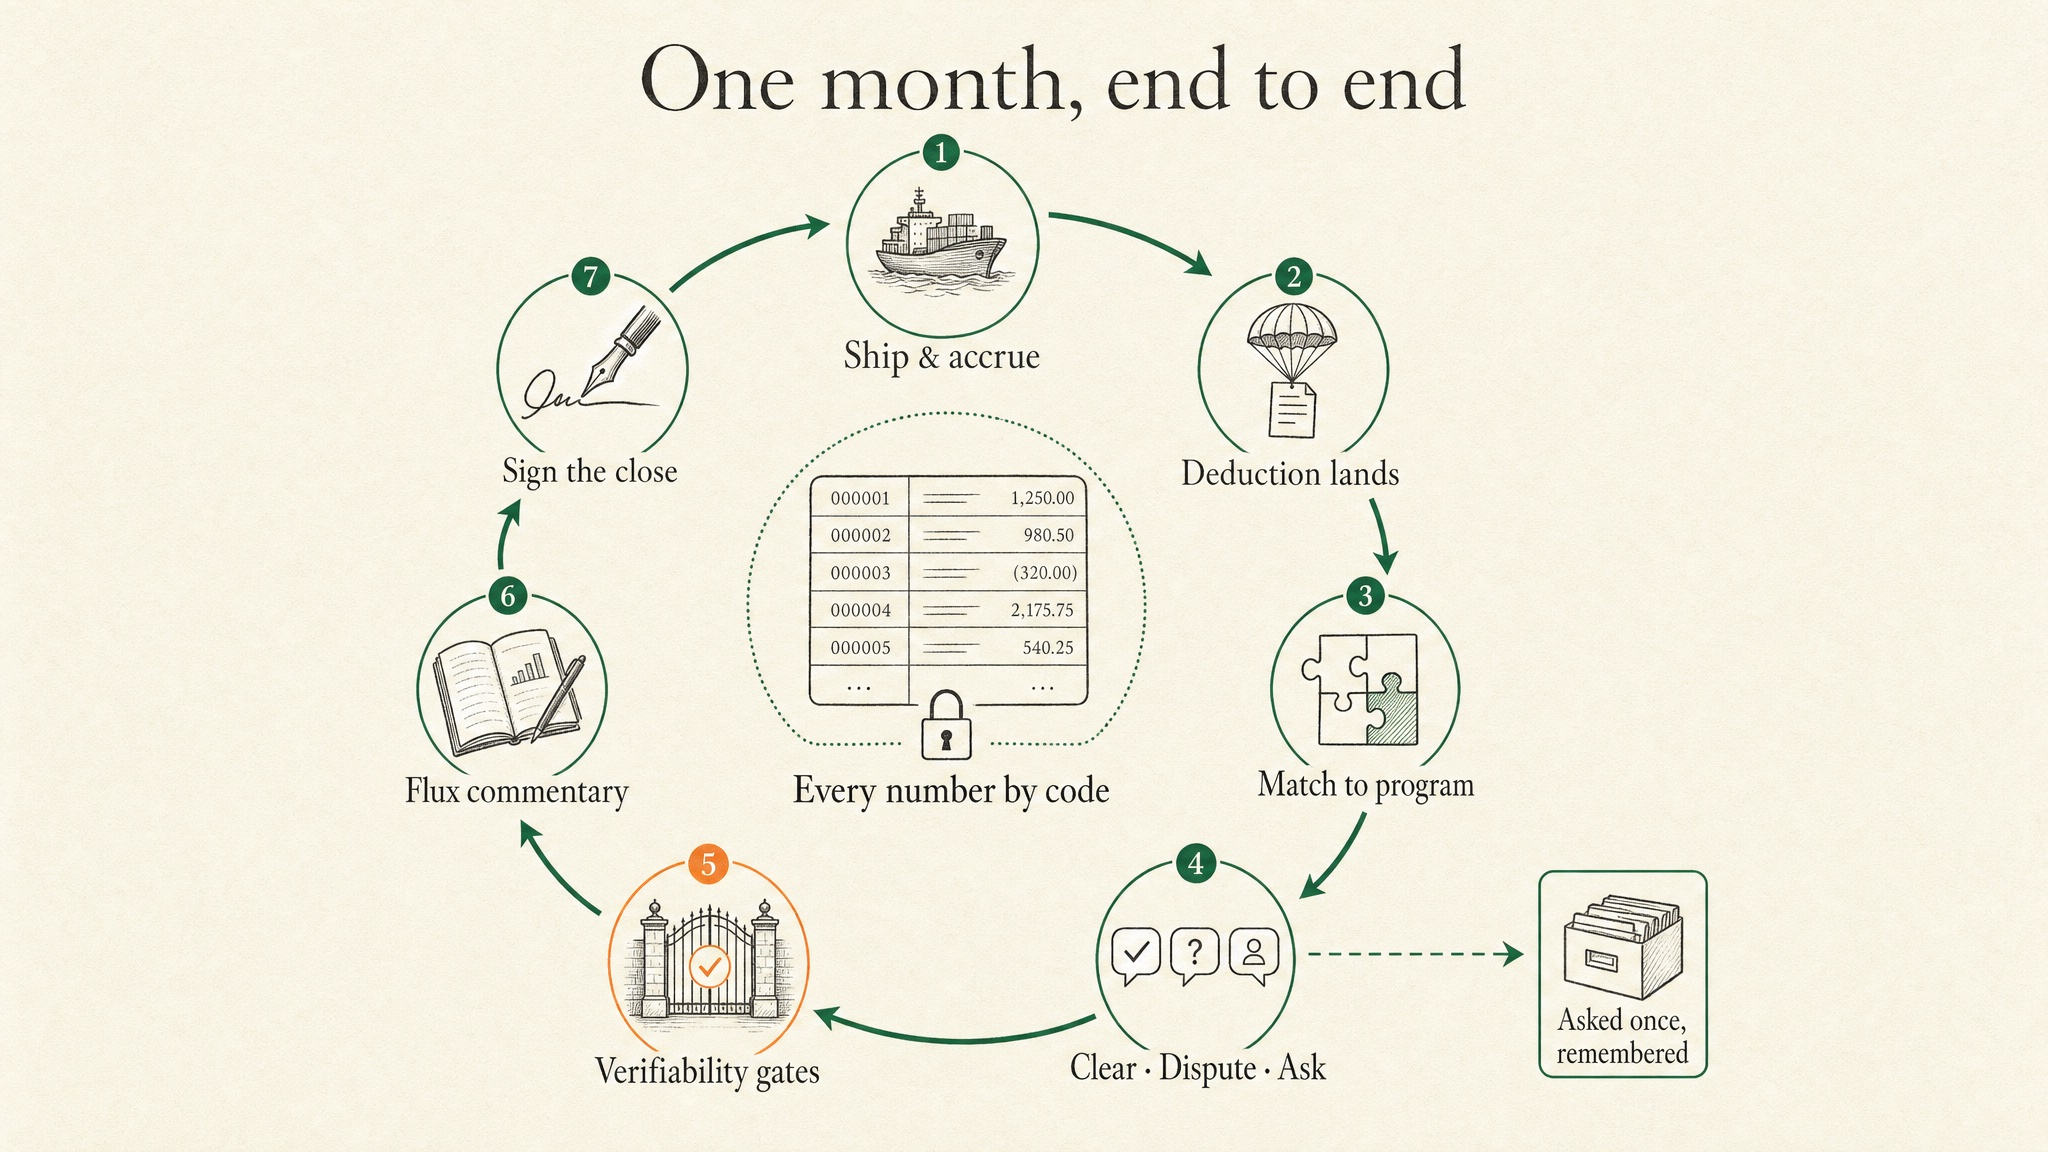
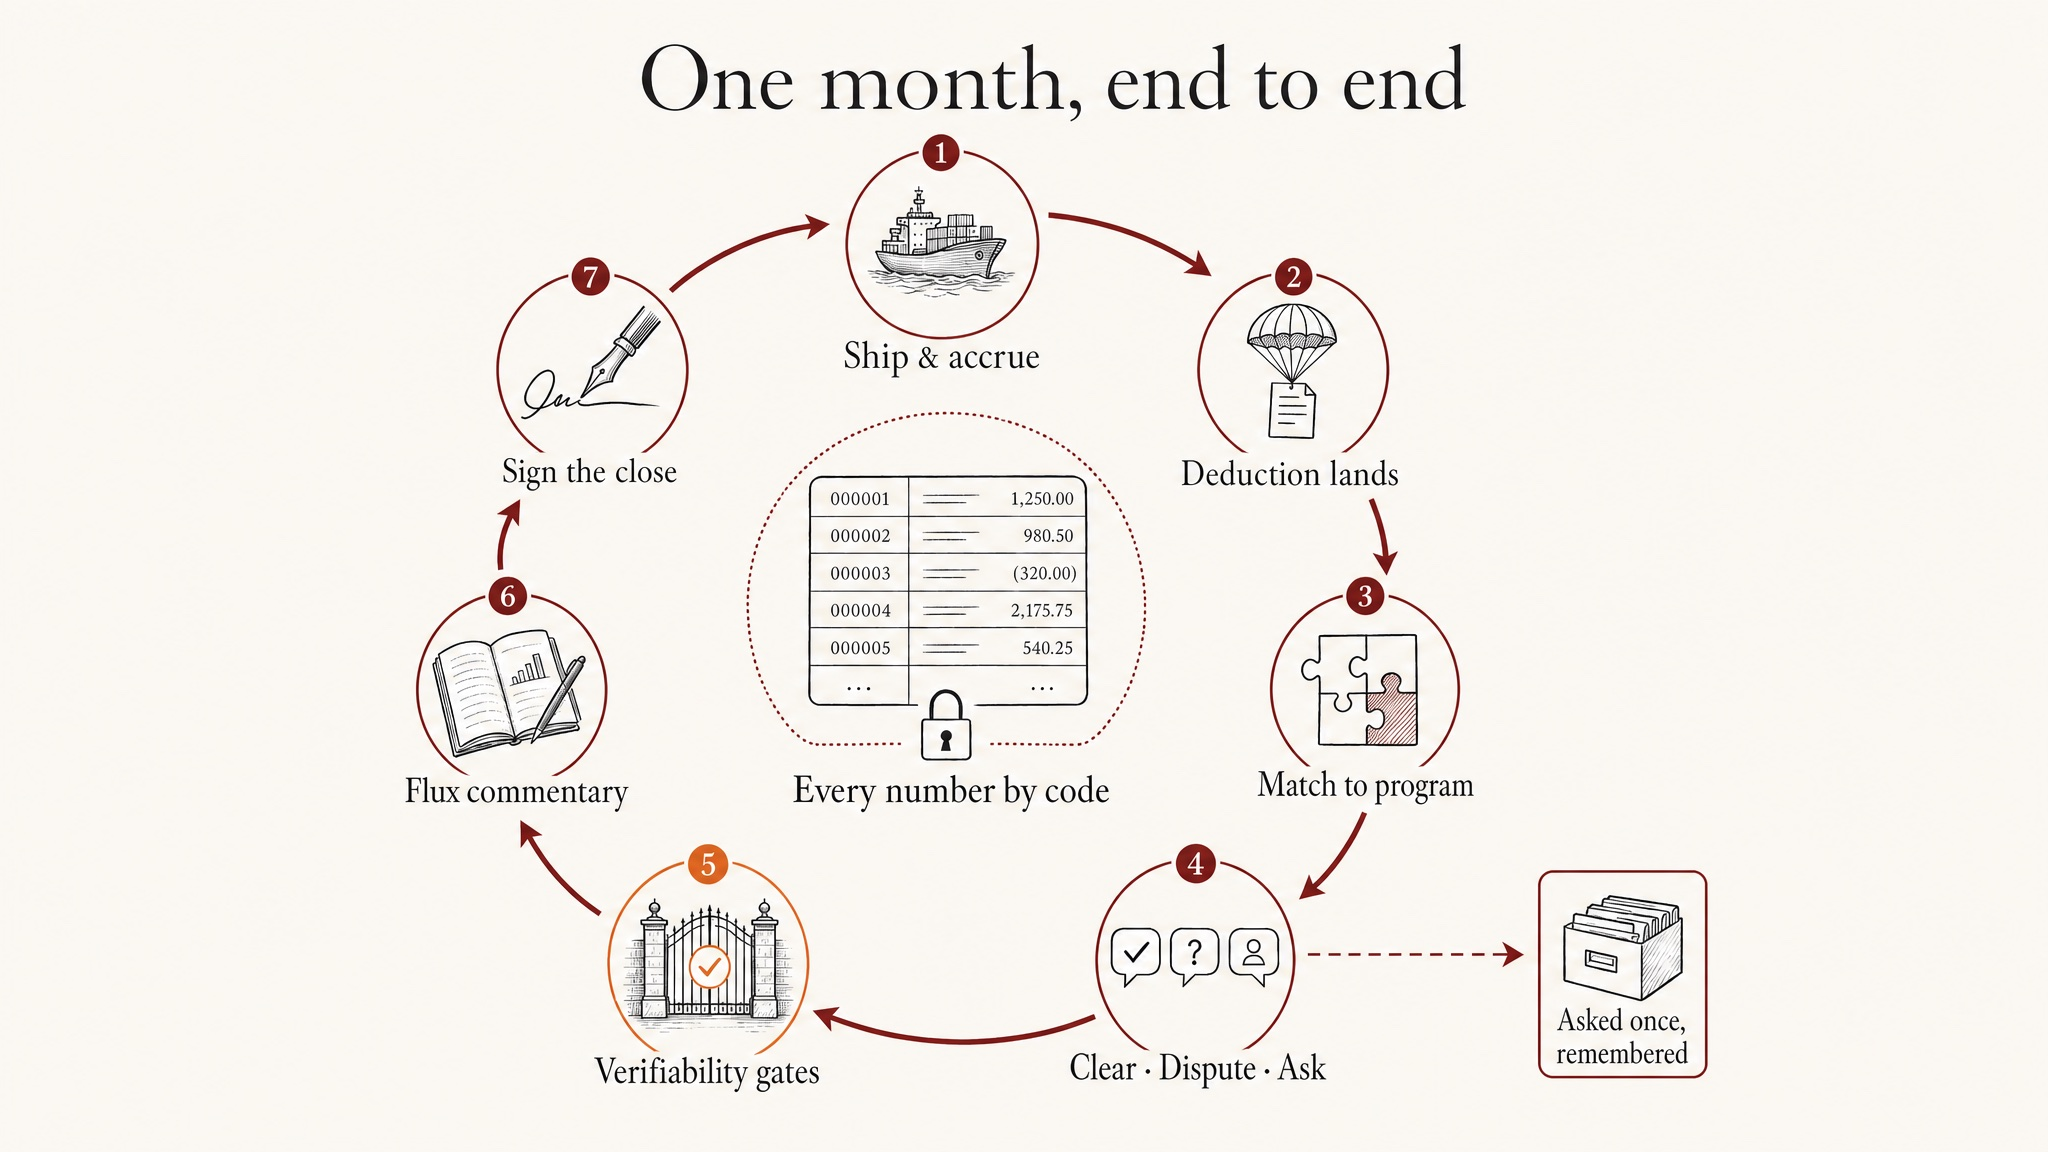
README: JADE is the Judgement And Decision Engine; images in the brand palette
Oxblood #6F1F1B, orange #E86F31, paper #F9F6EF; no green.

Claude-Session: https://claude.ai/code/session_017eFRSw9qHxdhY1EPFS5HEE

diff --git a/README.md b/README.md
@@ -1,6 +1,6 @@
-# JADE
+# JADE — Judgement And Decision Engine
 
-![JADE: the trade promotion accountant that reopens its own books. Shipments and deduction stubs feed an open ledger, and an amendment letter pulls six closed months, February to July, back open to be restated.](docs/images/hero.jpg)
+![JADE, the Judgement And Decision Engine: the trade promotion accountant that reopens its own books. Shipments and deduction stubs feed an open ledger, and an amendment letter pulls six closed months, February to July, back open to be restated.](docs/images/hero.jpg)
 
 <p align="center">
   <b>Cal Hacks 13.0</b> &nbsp;·&nbsp; <b>Hyphenate track</b> &nbsp;·&nbsp; Autonomous trade promotion accounting for General Mills
